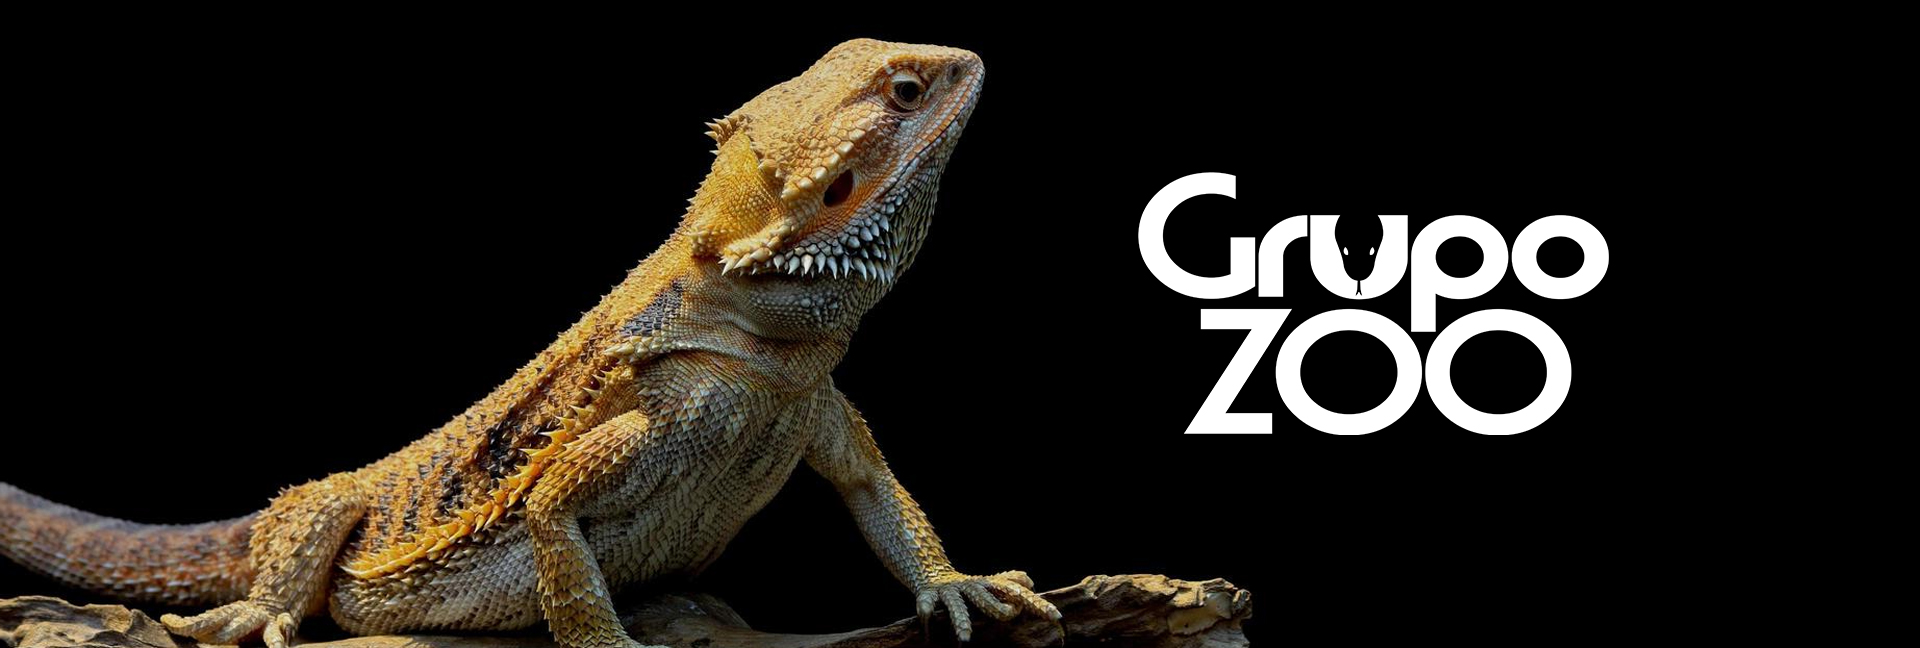
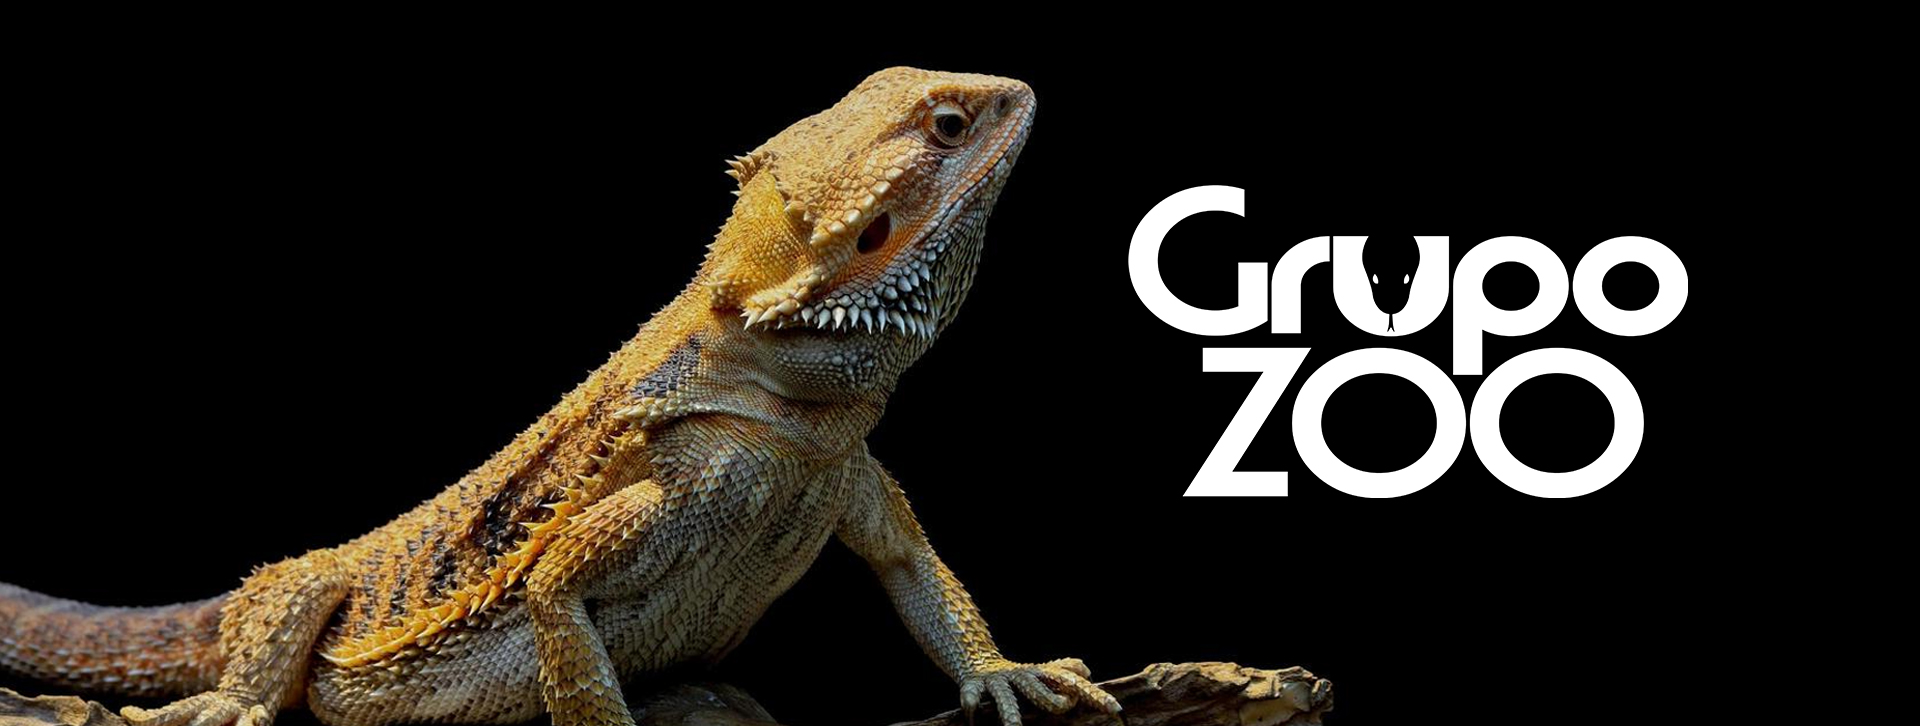
Actualizar imágenes del carrusel de introducción y ajustar descripción en la sección de información de GrupoZoo

Changed region(s): [[0.0, 0.0617, 0.7188, 1.0], [0.5625, 0.2469, 0.9062, 0.7099]]

diff --git a/index.html b/index.html
@@ -68,7 +68,7 @@
 
       <div id="logo" class="pull-left">
         <a href="#body">
-          <img src="./img/logo-grupozoo.png" alt="Descripción de la imagen" class="img-fluid" style="max-height: 60px;">
+          <img src="./img/logo-grupozoo.png" alt="Descripción de la imagen" class="img-fluid" style="max-height: 50px;">
         </a>
       </div>
 
@@ -149,9 +149,9 @@
         
 
             <ul>
-              <li style="font-size: 1.0em;" class="text-justify"><i class="ion-android-checkmark-circle"></i> GrupoZoo, fundado en 2013, se ha consolidado como uno de los principales importadores y proveedores mayoristas de reptiles y accesorios en el país. Gracias a sólidas relaciones internacionales, ofrecemos una amplia variedad de especies y productos. Actualmente, enfrentamos un nuevo desafío con nuestra tienda en línea TuReptil.cl, donde los clientes pueden acceder a más opciones y asesoría especializada.</li>
-              <li style="font-size: 1.0em;" class="text-justify"><i class="ion-android-checkmark-circle"></i> Nos distingue nuestro compromiso con el bienestar animal, asegurando cuidados óptimos para cada reptil que importamos.</li>
-              <li style="font-size: 1.0em;" class="text-justify"><i class="ion-android-checkmark-circle"></i> Envíos rápidos y seguros a todo el país.</li>
+              <li style="font-size: 1.0em;" class="text-justify"><i class="ion-android-checkmark-circle"></i> Desde 2013, GrupoZoo se ha posicionado como líder en la importación y venta mayorista de reptiles y accesorios en Chile. Gracias a su respaldo internacional y a su red de proveedores especializados, ofrece una amplia variedad de especies, insumos y productos de calidad. Con su tienda online, TuReptil.cl, amplía el acceso a clientes de todo el país, brindando asesoría personalizada, atención confiable y un compromiso constante con el bienestar animal en cada entrega.</li>
+              
+              
             </ul>
 
           </div>
